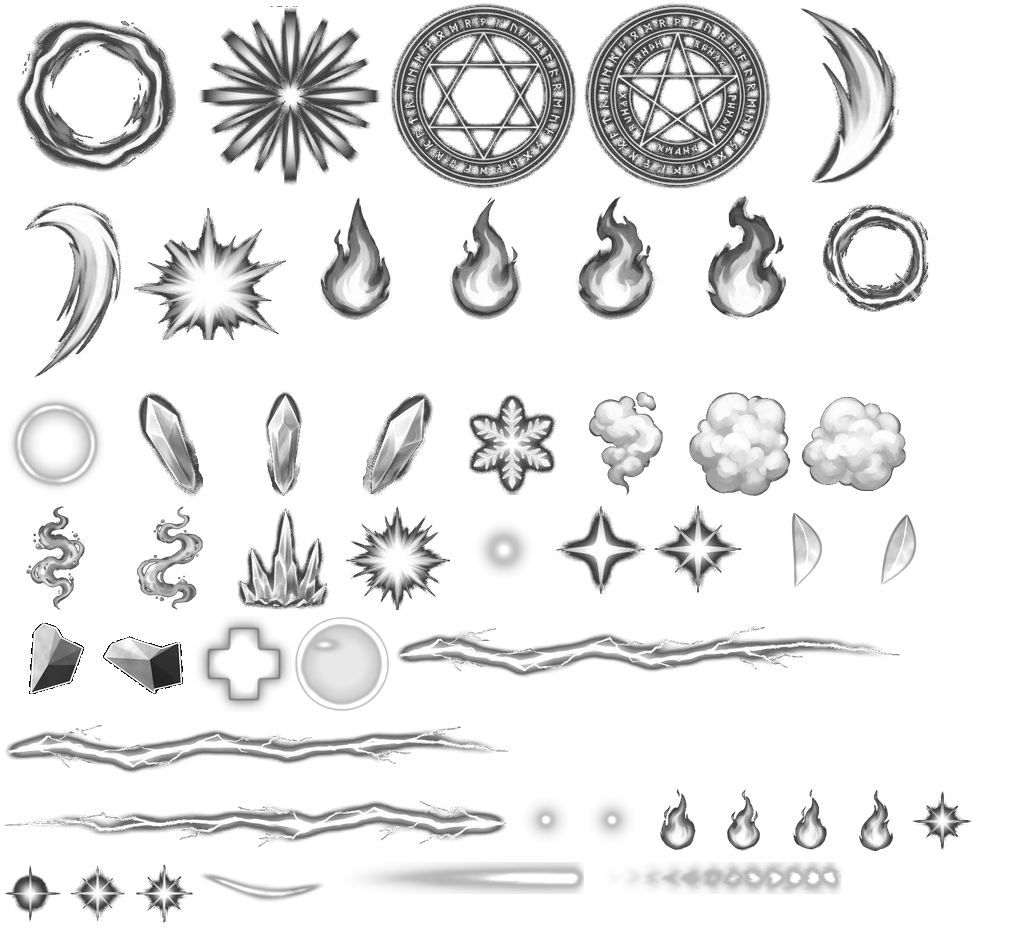
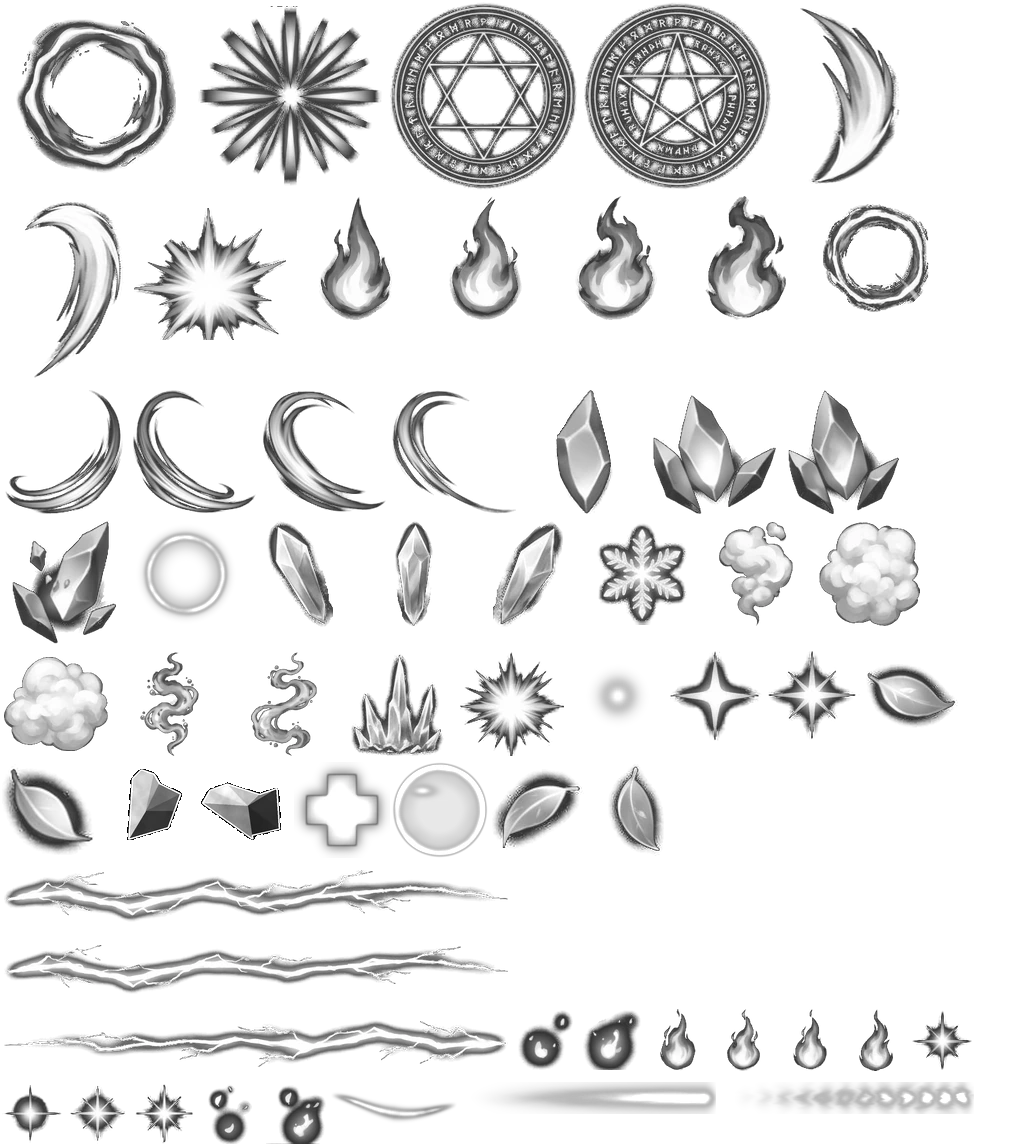
Folha de VFX animada do dono integrada: crescentes de vento no Redemoinho, pedras brotando na Furia do Colosso, folhas e brasas pintadas nas particulas; corrige docstring quebrada de tools/vfx-kit.py

diff --git a/public/style.css b/public/style.css
@@ -282,9 +282,9 @@ body.online .online-only { display: inline-block; }
 .tbtn.sk0, .tbtn.sk1, .tbtn.sk2 { width: 50px; height: 50px; }
 .tbtn.pot { width: 50px; height: 50px; right: 184px; bottom: 19px; }
 .tbtn.pot .icon { font-size: 22px; }
-/* botão de voltar à vila: medalhão pintado como moldura e a casa 3D recortada dentro (assets/icons/ui/home.webp?v=154f9b0b) */
-.tbtn.home, .slot.medal { background: url(assets/ui/medal-normal.webp?v=154f9b0b) center / 100% 100% no-repeat; border: 0; border-radius: 50%; box-shadow: none; overflow: visible; }
-.tbtn.home:active, .tbtn.home.down, .slot.medal:active { background-image: url(assets/ui/medal-pressed.webp?v=154f9b0b); }
+/* botão de voltar à vila: medalhão pintado como moldura e a casa 3D recortada dentro (assets/icons/ui/home.webp?v=d2d19e6c) */
+.tbtn.home, .slot.medal { background: url(assets/ui/medal-normal.webp?v=d2d19e6c) center / 100% 100% no-repeat; border: 0; border-radius: 50%; box-shadow: none; overflow: visible; }
+.tbtn.home:active, .tbtn.home.down, .slot.medal:active { background-image: url(assets/ui/medal-pressed.webp?v=d2d19e6c); }
 .tbtn.home .icon, .slot.medal .icon { position: absolute; inset: 0; display: grid; place-items: center; font-size: 20px; }
 .tbtn.home .icon img, .slot.medal .icon img { width: 70%; height: 70%; object-fit: contain; filter: drop-shadow(0 2px 2px rgba(0,0,0,.5)); pointer-events: none; }
 .zone-ic { width: 40px; height: 40px; object-fit: contain; filter: drop-shadow(0 2px 2px rgba(0,0,0,.45)); }
@@ -431,7 +431,7 @@ body.touch .menu-btns button { width: 44px; height: 40px; }
 @media (max-height: 320px) { :root { --card-w: 100px; --map: 96px; } }
 
 /* cartão do herói: moldura de bronze com 4 gemas; o retrato entra no vão escuro (10%,15,4% · 44,3%×69%) e os dois tubos saem pela direita */
-#hud-player { left: calc(8px + env(safe-area-inset-left, 0px)); top: 8px; width: var(--card-w); height: calc(var(--card-w) * .637); padding: 0; gap: 0; display: block; background: url(assets/ui/hero-card.webp?v=154f9b0b) center/100% 100% no-repeat; border: 0; border-radius: 0; box-shadow: none; filter: drop-shadow(0 3px 4px rgba(0,0,0,.5)); }
+#hud-player { left: calc(8px + env(safe-area-inset-left, 0px)); top: 8px; width: var(--card-w); height: calc(var(--card-w) * .637); padding: 0; gap: 0; display: block; background: url(assets/ui/hero-card.webp?v=d2d19e6c) center/100% 100% no-repeat; border: 0; border-radius: 0; box-shadow: none; filter: drop-shadow(0 3px 4px rgba(0,0,0,.5)); }
 #hud-player .portrait { position: absolute; left: 10%; top: 15.4%; width: 44.3%; height: 69%; border-radius: 6px; background: #141a28; box-shadow: none; border: 0; font-size: 0; overflow: hidden; display: grid; place-items: center; z-index: 2; }
 #hud-player .portrait img { width: 96%; height: 96%; object-fit: contain; filter: none; }
 #hud-player .bars { display: contents; }
@@ -439,11 +439,11 @@ body.touch .menu-btns button { width: 44px; height: 40px; }
 #hud-name { position: absolute; left: 40%; top: 1%; max-width: 135%; font: 800 10px Nunito, sans-serif; color: #fff6d6; text-shadow: 0 1px 2px #000, 0 0 4px #000; white-space: nowrap; overflow: hidden; text-overflow: ellipsis; }
 #hud-player .name-row #hud-level, #hud-level { position: absolute; left: 1%; bottom: -8%; min-width: 22px; height: 20px; padding: 0 6px; display: grid; place-items: center; z-index: 3; border-radius: 10px; font: 900 11px Nunito, sans-serif; color: #3a2600; background: radial-gradient(circle at 35% 30%, #fff0a6, #c98f12); box-shadow: 0 0 0 1.5px #8a5d08, 0 2px 4px rgba(0,0,0,.45); }
 /* vidros de poção: tubo vazio por baixo; o líquido (vida vermelha, XP dourado: nunca azul, o jogo não tem mana) só aparece até a fração --v (11,9%–84% da peça = parte de vidro) */
-#hud-player .bar { position: absolute; left: 38.7%; width: 135.5%; height: auto; aspect-ratio: 520 / 117; margin: 0; border-radius: 0; background: url(assets/ui/vial-empty.webp?v=154f9b0b) center/100% 100% no-repeat; overflow: visible; }
+#hud-player .bar { position: absolute; left: 38.7%; width: 135.5%; height: auto; aspect-ratio: 520 / 117; margin: 0; border-radius: 0; background: url(assets/ui/vial-empty.webp?v=d2d19e6c) center/100% 100% no-repeat; overflow: visible; }
 #hud-player .bar.hp { top: 16.5%; } #hud-player .bar.xp { top: 47%; height: auto; }
 #hud-player .bar .fill { position: absolute; inset: 0; width: 100% !important; height: 100% !important; border-radius: 0; transition: clip-path .15s; clip-path: inset(0 calc(100% - (11.9% + var(--v, 1) * 72.1%)) 0 0); }
-#hud-player .bar.hp .fill:not(.shield) { background: url(assets/ui/vial-hp.webp?v=154f9b0b) center/100% 100% no-repeat; }
-#hud-player .bar.xp .fill { background: url(assets/ui/vial-xp.webp?v=154f9b0b) center/100% 100% no-repeat; }
+#hud-player .bar.hp .fill:not(.shield) { background: url(assets/ui/vial-hp.webp?v=d2d19e6c) center/100% 100% no-repeat; }
+#hud-player .bar.xp .fill { background: url(assets/ui/vial-xp.webp?v=d2d19e6c) center/100% 100% no-repeat; }
 #hud-player .bar.hp .fill.shield { inset: auto; left: 11.9%; top: 26%; height: 5px !important; width: calc(var(--s, 0) * 72.1%) !important; clip-path: none; background: rgba(255,226,120,.9); border-radius: 3px; box-shadow: 0 0 4px rgba(255,200,60,.8); }
 #hud-player .bar span { left: 12%; right: 16%; font: 900 10px Nunito, sans-serif; color: #fff; text-shadow: 0 1px 2px #000, 0 0 3px #000; z-index: 2; }
 #hud-player .bar.xp span { font-size: 9px; }
@@ -452,7 +452,7 @@ body.touch .menu-btns button { width: 44px; height: 40px; }
 
 /* minimapa: anel pintado por cima de um canvas redondo (radar centrado no jogador); o vão do anel é 19,7%–80,4% */
 #hud-zone { right: calc(8px + env(safe-area-inset-right, 0px)); top: 8px; width: var(--map); height: var(--map); padding: 0; background: none; border: 0; border-radius: 0; box-shadow: none; filter: drop-shadow(0 3px 4px rgba(0,0,0,.5)); }
-#hud-zone::after { content: ''; position: absolute; inset: 0; background: url(assets/ui/minimap-ring.webp?v=154f9b0b) center/100% 100% no-repeat; pointer-events: none; z-index: 2; }
+#hud-zone::after { content: ''; position: absolute; inset: 0; background: url(assets/ui/minimap-ring.webp?v=d2d19e6c) center/100% 100% no-repeat; pointer-events: none; z-index: 2; }
 #hud-zone #minimap, body.touch #minimap { position: absolute; display: block; left: 19.7%; top: 19.4%; width: 60.7%; height: 61%; margin: 0; border-radius: 50%; background: rgba(20,30,40,.5); box-shadow: none; }
 #zone-name { display: none; }
 body:not(.touch) #zone-name { display: block; position: absolute; top: 100%; left: 50%; transform: translateX(-50%); margin: -2px 0 0; white-space: nowrap; font: 800 12px Cinzel, serif; color: #fff6d6; text-shadow: 0 1px 3px #000, 0 0 5px #000; }
@@ -462,43 +462,43 @@ body:not(.online) .menu-btns .online-only { display: none; } /* grupo só com co
 .menu-btns button, body.touch .menu-btns button { width: 40px; height: 40px; padding: 0; background: none; border: 0; border-radius: 50%; box-shadow: none; font-size: 0; display: grid; place-items: center; }
 .menu-btns button img { width: 100%; height: 100%; object-fit: contain; display: block; pointer-events: none; filter: drop-shadow(0 2px 3px rgba(0,0,0,.5)); }
 .menu-btns button:active img { filter: brightness(1.25) drop-shadow(0 2px 3px rgba(0,0,0,.5)); }
-.menu-btns button.txt { background: url(assets/ui/medal-normal.webp?v=154f9b0b) center/100% 100% no-repeat; font-size: 17px; color: #fff0a6; }
+.menu-btns button.txt { background: url(assets/ui/medal-normal.webp?v=d2d19e6c) center/100% 100% no-repeat; font-size: 17px; color: #fff0a6; }
 body.touch .menu-btns { position: fixed; top: 8px; right: calc(8px + var(--map) + 8px + env(safe-area-inset-right, 0px)); width: auto; flex-wrap: nowrap; justify-content: flex-start; gap: 4px; }
 @media (max-height: 420px) { .menu-btns button, body.touch .menu-btns button { width: 36px; height: 36px; } }
 @media (max-height: 320px) { .menu-btns button, body.touch .menu-btns button { width: 34px; height: 34px; } }
 
 /* ===== PAINÉIS PINTADOS (B5, parte 2): moldura em 9 fatias, botões, células de raridade, dica e faixa — só a "pele" mudou; marcação e ações iguais ===== */
-.panel { --pb: 26px; background: none; border: var(--pb) solid transparent; border-image: url(assets/ui/panel-9.webp?v=154f9b0b) 135 134 131 135 fill / var(--pb) stretch; border-radius: 0; box-shadow: none; backdrop-filter: none; filter: drop-shadow(0 14px 22px rgba(0,0,0,.55)); }
+.panel { --pb: 26px; background: none; border: var(--pb) solid transparent; border-image: url(assets/ui/panel-9.webp?v=d2d19e6c) 135 134 131 135 fill / var(--pb) stretch; border-radius: 0; box-shadow: none; backdrop-filter: none; filter: drop-shadow(0 14px 22px rgba(0,0,0,.55)); }
 .panel header { padding: 0 2px 6px; }
 .panel h2 { color: #f6ebc9; text-shadow: 0 2px 0 #000b; letter-spacing: .6px; }
 .panel .body { padding: 0 4px 4px; }
-.panel .x { width: 36px; height: 36px; border-radius: 50%; border: 0; background: url(assets/ui/medal-normal.webp?v=154f9b0b) center / 100% 100% no-repeat; color: #f6ebc9; font-weight: 900; text-shadow: 0 1px 0 #000; }
-.panel .x:hover { background: url(assets/ui/medal-normal.webp?v=154f9b0b) center / 100% 100% no-repeat; filter: brightness(1.2); }
-.panel .x:active { background-image: url(assets/ui/medal-pressed.webp?v=154f9b0b); }
+.panel .x { width: 36px; height: 36px; border-radius: 50%; border: 0; background: url(assets/ui/medal-normal.webp?v=d2d19e6c) center / 100% 100% no-repeat; color: #f6ebc9; font-weight: 900; text-shadow: 0 1px 0 #000; }
+.panel .x:hover { background: url(assets/ui/medal-normal.webp?v=d2d19e6c) center / 100% 100% no-repeat; filter: brightness(1.2); }
+.panel .x:active { background-image: url(assets/ui/medal-pressed.webp?v=d2d19e6c); }
 body.touch .panel .x { width: 42px; height: 42px; }
 
-.btn { --bb: 14px; min-height: 36px; border: var(--bb) solid transparent; border-image: url(assets/ui/btn-normal.webp?v=154f9b0b) 80 fill / var(--bb) stretch; border-radius: 0; background: none; padding: 0 8px; margin: -4px 0; color: #f6ebc9; text-shadow: 0 2px 0 #000b; letter-spacing: .3px; transition: filter .1s, transform .1s; }
+.btn { --bb: 14px; min-height: 36px; border: var(--bb) solid transparent; border-image: url(assets/ui/btn-normal.webp?v=d2d19e6c) 80 fill / var(--bb) stretch; border-radius: 0; background: none; padding: 0 8px; margin: -4px 0; color: #f6ebc9; text-shadow: 0 2px 0 #000b; letter-spacing: .3px; transition: filter .1s, transform .1s; }
 .btn:hover { background: none; filter: brightness(1.15); transform: none; }
-.btn:active { border-image-source: url(assets/ui/btn-pressed.webp?v=154f9b0b); transform: translateY(1px); }
-.btn.primary, .btn.sel { background: none; border-color: transparent; border-image-source: url(assets/ui/btn-primary.webp?v=154f9b0b); color: #fff6d6; }
+.btn:active { border-image-source: url(assets/ui/btn-pressed.webp?v=d2d19e6c); transform: translateY(1px); }
+.btn.primary, .btn.sel { background: none; border-color: transparent; border-image-source: url(assets/ui/btn-primary.webp?v=d2d19e6c); color: #fff6d6; }
 .btn.primary:hover { background: none; }
-.btn:disabled, .btn.disabled { border-image-source: url(assets/ui/btn-disabled.webp?v=154f9b0b); color: #a8a6a0; cursor: default; filter: none; }
-.btn.ghost { border-image-source: url(assets/ui/btn-normal.webp?v=154f9b0b); opacity: .85; }
+.btn:disabled, .btn.disabled { border-image-source: url(assets/ui/btn-disabled.webp?v=d2d19e6c); color: #a8a6a0; cursor: default; filter: none; }
+.btn.ghost { border-image-source: url(assets/ui/btn-normal.webp?v=d2d19e6c); opacity: .85; }
 .btn.small { padding: 0 4px; min-height: 30px; --bb: 12px; }
 .btn.big { padding: 0 18px; min-height: 46px; --bb: 16px; }
 .btn.wide { padding: 0 8px; min-height: 44px; margin: 2px 0; }
 body.touch .btn.small { padding: 0 6px; }
 
-.cell { width: 54px; height: 54px; border: 0; border-radius: 0; box-shadow: none; background: url(assets/ui/rarity-0.webp?v=154f9b0b) center / 100% 100% no-repeat; }
-.cell.r-uncommon { background-image: url(assets/ui/rarity-1.webp?v=154f9b0b); }
-.cell.r-rare { background-image: url(assets/ui/rarity-4.webp?v=154f9b0b); box-shadow: none; }
-.cell.r-epic { background-image: url(assets/ui/rarity-6.webp?v=154f9b0b); box-shadow: none; }
-.cell.r-legendary { background-image: url(assets/ui/rarity-5.webp?v=154f9b0b); box-shadow: none; }
-.cell.empty { background: url(assets/ui/rarity-0.webp?v=154f9b0b) center / 100% 100% no-repeat; opacity: .38; border: 0; }
+.cell { width: 54px; height: 54px; border: 0; border-radius: 0; box-shadow: none; background: url(assets/ui/rarity-0.webp?v=d2d19e6c) center / 100% 100% no-repeat; }
+.cell.r-uncommon { background-image: url(assets/ui/rarity-1.webp?v=d2d19e6c); }
+.cell.r-rare { background-image: url(assets/ui/rarity-4.webp?v=d2d19e6c); box-shadow: none; }
+.cell.r-epic { background-image: url(assets/ui/rarity-6.webp?v=d2d19e6c); box-shadow: none; }
+.cell.r-legendary { background-image: url(assets/ui/rarity-5.webp?v=d2d19e6c); box-shadow: none; }
+.cell.empty { background: url(assets/ui/rarity-0.webp?v=d2d19e6c) center / 100% 100% no-repeat; opacity: .38; border: 0; }
 .cell .ic { text-shadow: 0 1px 3px #000a; }
 
-#tooltip { --tb: 22px; max-width: 300px; padding: 0; border: var(--tb) solid transparent; border-image: url(assets/ui/tip.webp?v=154f9b0b) 70 fill / var(--tb) stretch; border-radius: 0; background: none; box-shadow: none; filter: drop-shadow(0 8px 14px rgba(0,0,0,.5)); }
-#arena-banner { background: url(assets/ui/banner.webp?v=154f9b0b) center / 100% 100% no-repeat; padding: .35em 1.6em; text-shadow: 0 2px 0 #000b; }
+#tooltip { --tb: 22px; max-width: 300px; padding: 0; border: var(--tb) solid transparent; border-image: url(assets/ui/tip.webp?v=d2d19e6c) 70 fill / var(--tb) stretch; border-radius: 0; background: none; box-shadow: none; filter: drop-shadow(0 8px 14px rgba(0,0,0,.5)); }
+#arena-banner { background: url(assets/ui/banner.webp?v=d2d19e6c) center / 100% 100% no-repeat; padding: .35em 1.6em; text-shadow: 0 2px 0 #000b; }
 @media (max-height: 520px) { .panel { --pb: 20px; } .cell { width: 48px; height: 48px; } }
 .inv-grid { grid-template-columns: repeat(6, minmax(0, 56px)); gap: 4px; }
 .inv-grid .cell { width: 100%; height: auto; aspect-ratio: 1; }
@@ -508,7 +508,7 @@ body.touch .btn.small { padding: 0 6px; }
 .char-head .avatar.art img { width: 100%; height: 100%; filter: drop-shadow(0 3px 4px rgba(0,0,0,.5)); }
 
 /* ===== B5 parte 2b: criação de personagem, diálogo de NPC e barra do chefe pintados ===== */
-.create-wrap { --pb: 30px; background: none; border: var(--pb) solid transparent; border-image: url(assets/ui/panel-9.webp?v=154f9b0b) 135 134 131 135 fill / var(--pb) stretch; border-radius: 0; padding: 4px 8px 8px; filter: drop-shadow(0 16px 28px rgba(0,0,0,.6)); }
+.create-wrap { --pb: 30px; background: none; border: var(--pb) solid transparent; border-image: url(assets/ui/panel-9.webp?v=d2d19e6c) 135 134 131 135 fill / var(--pb) stretch; border-radius: 0; padding: 4px 8px 8px; filter: drop-shadow(0 16px 28px rgba(0,0,0,.6)); }
 .create-wrap h1 { text-shadow: 0 2px 0 #000b; letter-spacing: 1px; }
 .class-card { background: rgba(8,10,26,.55); border: 2px solid rgba(201,162,74,.28); border-radius: 12px; }
 .class-card.sel { border-color: color-mix(in srgb, var(--cc) 55%, #e8c46a); background: color-mix(in srgb, var(--cc) 20%, rgba(8,10,26,.6)); }
@@ -517,16 +517,16 @@ body.touch .btn.small { padding: 0 6px; }
 .create-row input { background: rgba(8,10,26,.7); border: 2px solid rgba(201,162,74,.55); }
 @media (max-height: 520px) { .create-wrap { --pb: 22px; } .cc-icon.art { width: 40px; height: 40px; } }
 
-.npc-line { --db: 18px; margin: 0 0 10px; padding: 2px 6px; border: var(--db) solid transparent; border-image: url(assets/ui/dialog.webp?v=154f9b0b) 60 fill / var(--db) stretch; color: #3b2a14; font-style: italic; font-weight: 700; text-shadow: 0 1px 0 rgba(255,246,214,.5); }
+.npc-line { --db: 18px; margin: 0 0 10px; padding: 2px 6px; border: var(--db) solid transparent; border-image: url(assets/ui/dialog.webp?v=d2d19e6c) 60 fill / var(--db) stretch; color: #3b2a14; font-style: italic; font-weight: 700; text-shadow: 0 1px 0 rgba(255,246,214,.5); }
 
 #boss-bar { width: min(460px, 56vw); }
-#boss-name { position: relative; margin: 0 auto 2px; padding: 5px 40px 7px; width: max-content; max-width: 100%; background: url(assets/ui/plaque.webp?v=154f9b0b) center / 100% 100% no-repeat; color: #fff0d6; text-shadow: 0 2px 0 #000b; }
+#boss-name { position: relative; margin: 0 auto 2px; padding: 5px 40px 7px; width: max-content; max-width: 100%; background: url(assets/ui/plaque.webp?v=d2d19e6c) center / 100% 100% no-repeat; color: #fff0d6; text-shadow: 0 2px 0 #000b; }
 #boss-bar .bar { height: 14px; border: 2px solid #c9a24a; border-radius: 8px; background: #2a0e12; box-shadow: 0 0 0 1px #4a2a18, 0 4px 10px rgba(0,0,0,.5); }
 #boss-bar .fill { border-radius: 5px; background: linear-gradient(180deg, #ff9a88 0%, #d9473b 55%, #9c2a24 100%); }
 /* retrato do chefe: recorte frontal do sprite pintado, em medalhão dourado à esquerda da barra */
 #boss-portrait { --s: 58px; --cols: 5; --rows: 8; --ratio: 1.2; display: none; position: absolute; left: -34px; top: 6px; width: var(--s); height: var(--s); box-sizing: border-box; border-radius: 50%; border: 3px solid #c9a24a; background-color: #2a0e12; background-repeat: no-repeat; background-size: cover; background-position: center top; box-shadow: 0 0 0 1px #4a2a18, 0 4px 10px rgba(0,0,0,.55), inset 0 0 8px rgba(0,0,0,.6); z-index: 2; }
 body.touch #boss-portrait { --s: 44px; left: -26px; top: 2px; }
-.npc-line { border: 0; border-image: none; background: url(assets/ui/dialog.webp?v=154f9b0b) center / 100% 100% no-repeat; padding: 16px 18px 16px 21%; color: #f6ebc9; text-shadow: 0 2px 0 #000b; min-height: 74px; display: flex; align-items: center; }
+.npc-line { border: 0; border-image: none; background: url(assets/ui/dialog.webp?v=d2d19e6c) center / 100% 100% no-repeat; padding: 16px 18px 16px 21%; color: #f6ebc9; text-shadow: 0 2px 0 #000b; min-height: 74px; display: flex; align-items: center; }
 body.touch #boss-bar { top: 54px; width: min(420px, 48vw); }
 @media (max-height: 520px) {
   .create-wrap { padding: 0 6px 4px; }
@@ -559,7 +559,7 @@ body.touch #boss-bar { top: 54px; width: min(420px, 48vw); }
 .npc-line { position: relative; }
 .npc-emb { position: absolute; left: 3.2%; top: 50%; width: 15%; aspect-ratio: 3 / 4; transform: translateY(-50%); display: grid; place-items: center; pointer-events: none; }
 .npc-emb img { width: 92%; height: 92%; object-fit: contain; filter: drop-shadow(0 2px 3px rgba(0,0,0,.6)); }
-.result { --pb: 28px; background: none; border: var(--pb) solid transparent; border-image: url(assets/ui/panel-9.webp?v=154f9b0b) 135 134 131 135 fill / var(--pb) stretch; border-radius: 0; padding: 6px 24px 8px; filter: drop-shadow(0 16px 28px rgba(0,0,0,.6)); }
+.result { --pb: 28px; background: none; border: var(--pb) solid transparent; border-image: url(assets/ui/panel-9.webp?v=d2d19e6c) 135 134 131 135 fill / var(--pb) stretch; border-radius: 0; padding: 6px 24px 8px; filter: drop-shadow(0 16px 28px rgba(0,0,0,.6)); }
 .result h1 { text-shadow: 0 2px 0 #000b; }
 .result .sub { color: #cdd3ea; }
 @media (max-height: 520px) { .result { --pb: 22px; padding: 0 14px 4px; } }
@@ -572,13 +572,13 @@ body.touch #boss-bar { top: 54px; width: min(420px, 48vw); }
 .cc-icon.art img.por { border-radius: 50%; object-fit: cover; object-position: 50% 14%; background: radial-gradient(circle at 50% 35%, #34476e, #141a2e); box-shadow: 0 0 0 2px #c9a24a; }
 
 /* ===== B5 parte 2c: avisos, ouro e log pintados (sobras do estilo antigo: caixas escuras e fonte comum) ===== */
-.toast { --tb: 20px; background: none; border: var(--tb) solid transparent; border-image: url(assets/ui/tip.webp?v=154f9b0b) 70 fill / var(--tb) stretch; border-radius: 0; padding: 0 10px; filter: drop-shadow(0 6px 10px rgba(0,0,0,.45)); box-shadow: none; }
+.toast { --tb: 20px; background: none; border: var(--tb) solid transparent; border-image: url(assets/ui/tip.webp?v=d2d19e6c) 70 fill / var(--tb) stretch; border-radius: 0; padding: 0 10px; filter: drop-shadow(0 6px 10px rgba(0,0,0,.45)); box-shadow: none; }
 .toast.gold { border-color: transparent; box-shadow: none; filter: drop-shadow(0 0 12px rgba(255,211,77,.45)) drop-shadow(0 6px 10px rgba(0,0,0,.45)); }
 .toast .t1 { color: #fff0c8; text-shadow: 0 2px 0 #000b; }
 .toast .t2 { color: #e6dcc0; font-family: Cinzel, serif; font-weight: 700; font-size: 12px; text-shadow: 0 1px 0 #000a; }
-#hud-gold > span { --bb: 12px; background: none; border: var(--bb) solid transparent; border-image: url(assets/ui/btn-normal.webp?v=154f9b0b) 80 fill / var(--bb) stretch; border-radius: 0; padding: 0 6px; font: 800 13px Cinzel, serif; color: #f6ebc9; text-shadow: 0 2px 0 #000b; margin: -4px 0; }
-#hud-gold .pts { border-image-source: url(assets/ui/btn-primary.webp?v=154f9b0b); color: #fff6d6; background: none; }
-.log-line { --db: 12px; background: none; border: var(--db) solid transparent; border-image: url(assets/ui/tip.webp?v=154f9b0b) 70 fill / var(--db) stretch; border-radius: 0; padding: 0 4px; font: 700 12px Cinzel, serif; color: #f6ebc9; margin: -6px 0; }
+#hud-gold > span { --bb: 12px; background: none; border: var(--bb) solid transparent; border-image: url(assets/ui/btn-normal.webp?v=d2d19e6c) 80 fill / var(--bb) stretch; border-radius: 0; padding: 0 6px; font: 800 13px Cinzel, serif; color: #f6ebc9; text-shadow: 0 2px 0 #000b; margin: -4px 0; }
+#hud-gold .pts { border-image-source: url(assets/ui/btn-primary.webp?v=d2d19e6c); color: #fff6d6; background: none; }
+.log-line { --db: 12px; background: none; border: var(--db) solid transparent; border-image: url(assets/ui/tip.webp?v=d2d19e6c) 70 fill / var(--db) stretch; border-radius: 0; padding: 0 4px; font: 700 12px Cinzel, serif; color: #f6ebc9; margin: -6px 0; }
 /* a faixa da arena ("1×1 — começa em 3", "Lute!") ficava em cima da barra do rival: desce abaixo dela */
 #arena-banner { top: 36%; }
 @media (max-height: 520px) { #arena-banner { top: 38%; font-size: 20px; } }
@@ -652,8 +652,8 @@ body.touch #boss-bar { top: 54px; width: min(420px, 48vw); }
 
 /* ===== Auditoria visual, média/baixa (V5–V30) ===== */
 /* V6: botão de interagir (toque) no mesmo medalhão pintado dos outros; o ícone é pintado (baú ou pergaminho), sem disco amarelo */
-.tbtn.act { width: 60px; height: 60px; background: url(assets/ui/medal-normal.webp?v=154f9b0b) center / 100% 100% no-repeat; border: 0; border-radius: 50%; box-shadow: none; animation: act-glow 1.4s ease-in-out infinite; }
-.tbtn.act.down { background-image: url(assets/ui/medal-pressed.webp?v=154f9b0b); }
+.tbtn.act { width: 60px; height: 60px; background: url(assets/ui/medal-normal.webp?v=d2d19e6c) center / 100% 100% no-repeat; border: 0; border-radius: 50%; box-shadow: none; animation: act-glow 1.4s ease-in-out infinite; }
+.tbtn.act.down { background-image: url(assets/ui/medal-pressed.webp?v=d2d19e6c); }
 .tbtn.act .icon { position: absolute; inset: 0; display: grid; place-items: center; font-size: 0; }
 .tbtn.act .icon img { width: 66%; height: 66%; object-fit: contain; filter: drop-shadow(0 2px 2px rgba(0,0,0,.5)); pointer-events: none; }
 @keyframes act-glow { 50% { filter: drop-shadow(0 0 8px rgba(255,214,120,.9)) brightness(1.12); } }
@@ -680,7 +680,7 @@ body.panel-open #toast-layer { top: 6%; }
 @media (max-height: 520px) { body.boss-on #toast-layer { top: 40%; } }
 
 /* V18: pílula do ritual com a moldura de metal da barra do chefe */
-#ritual { top: calc(var(--map) + 30px); right: calc(8px + env(safe-area-inset-right, 0px)); padding: 5px 26px 7px; background: url(assets/ui/plaque.webp?v=154f9b0b) center / 100% 100% no-repeat; border: 0; border-radius: 0; color: #fff0d6; text-shadow: 0 2px 0 #000b; font-size: 12px; white-space: nowrap; }
+#ritual { top: calc(var(--map) + 30px); right: calc(8px + env(safe-area-inset-right, 0px)); padding: 5px 26px 7px; background: url(assets/ui/plaque.webp?v=d2d19e6c) center / 100% 100% no-repeat; border: 0; border-radius: 0; color: #fff0d6; text-shadow: 0 2px 0 #000b; font-size: 12px; white-space: nowrap; }
 body.touch #ritual { top: calc(var(--map) + 10px); }
 body:not(.touch) #ritual { top: calc(var(--map) + 150px); }
 
@@ -689,7 +689,7 @@ body:not(.touch) #ritual { top: calc(var(--map) + 150px); }
 .slot.art.blocked .icon img, .tbtn.sk.blocked .icon img { filter: grayscale(.85) brightness(.5); }
 
 /* V24: item opalino: moldura prateada (rarity-2, que sobrava) com brilho em arco-íris pulsando */
-.cell.opal { background-image: url(assets/ui/rarity-2.webp?v=154f9b0b); animation: opal-pulse 2.8s linear infinite; }
+.cell.opal { background-image: url(assets/ui/rarity-2.webp?v=d2d19e6c); animation: opal-pulse 2.8s linear infinite; }
 .cell.opal::after { content: ''; position: absolute; inset: 6%; border-radius: 12px; pointer-events: none; mix-blend-mode: screen; opacity: .55;
   background: linear-gradient(115deg, rgba(255,120,200,.0) 10%, rgba(255,140,220,.7) 28%, rgba(120,230,255,.7) 46%, rgba(170,255,170,.7) 62%, rgba(255,230,130,.7) 78%, rgba(255,120,200,0) 92%); background-size: 220% 100%; animation: opal-sheen 3.4s ease-in-out infinite; }
 @keyframes opal-pulse { 0%, 100% { filter: drop-shadow(0 0 5px rgba(255,150,230,.7)); } 33% { filter: drop-shadow(0 0 7px rgba(130,230,255,.8)); } 66% { filter: drop-shadow(0 0 6px rgba(190,255,170,.75)); } }
@@ -755,7 +755,7 @@ body:not(.touch) #ritual { top: calc(var(--map) + 150px); }
 .mp-paths line.dungeon.lit { stroke: #7fe0ea; stroke-opacity: .9; }
 .mp-node.dungeon .mp-nm { color: #9fe8f2; }
 .mp-node { position: absolute; transform: translate(-50%, -50%); display: flex; flex-direction: column; align-items: center; gap: 1px; width: 92px; padding: 2px 0; background: none; border: 0; color: #f6ebc9; cursor: pointer; font-family: Nunito, sans-serif; }
-.mp-ic { position: relative; width: 46px; height: 46px; display: grid; place-items: center; border-radius: 50%; background: url(assets/ui/medal-normal.webp?v=154f9b0b) center / 100% 100% no-repeat; }
+.mp-ic { position: relative; width: 46px; height: 46px; display: grid; place-items: center; border-radius: 50%; background: url(assets/ui/medal-normal.webp?v=d2d19e6c) center / 100% 100% no-repeat; }
 .mp-ic .zone-ic { width: 30px; height: 30px; }
 .mp-node.sel .mp-ic { filter: drop-shadow(0 0 7px #ffd34d) brightness(1.15); }
 .mp-node.here .mp-ic { box-shadow: 0 0 0 2px #7dff9b; }
@@ -909,15 +909,15 @@ body:not(.touch) #ritual { top: calc(var(--map) + 150px); }
 body:has(#hud-gold .pts) #qtrack { top: calc(8px + var(--card-w) * .637 + 12px + 40px + var(--sat, 0px)); } /* com o aviso "+N pontos" ele vem primeiro */
 #qtrack button { padding: 0; border: 0; background: none; cursor: pointer; pointer-events: auto; flex: none; position: relative; filter: drop-shadow(0 2px 3px rgba(0,0,0,.5)); }
 #qtrack .qt-ic { width: 34px; height: 34px; } #qtrack .qt-ic img { width: 100%; height: 100%; object-fit: contain; display: block; pointer-events: none; }
-#qtrack .qt-txt { --bb: 9px; min-width: 0; flex: 0 1 auto; margin-left: -4px; pointer-events: auto; cursor: pointer; background: none; border: var(--bb) solid transparent; border-image: url(assets/ui/btn-normal.webp?v=154f9b0b) 80 fill / var(--bb) stretch; border-radius: 0; padding: 0 4px; white-space: nowrap; overflow: hidden; text-overflow: ellipsis; font: 800 11px/18px Nunito, system-ui, sans-serif; color: #fff6d6; text-shadow: 0 1px 2px #000, 0 0 3px #000; filter: drop-shadow(0 2px 3px rgba(0,0,0,.45)); }
+#qtrack .qt-txt { --bb: 9px; min-width: 0; flex: 0 1 auto; margin-left: -4px; pointer-events: auto; cursor: pointer; background: none; border: var(--bb) solid transparent; border-image: url(assets/ui/btn-normal.webp?v=d2d19e6c) 80 fill / var(--bb) stretch; border-radius: 0; padding: 0 4px; white-space: nowrap; overflow: hidden; text-overflow: ellipsis; font: 800 11px/18px Nunito, system-ui, sans-serif; color: #fff6d6; text-shadow: 0 1px 2px #000, 0 0 3px #000; filter: drop-shadow(0 2px 3px rgba(0,0,0,.45)); }
 #qtrack b { display: none; } /* o nome da missão fica no diário (title); a linha mostra o objetivo e o destino */
 #qtrack span, #qtrack em { font: 800 11px/18px Nunito, system-ui, sans-serif; color: #fff6d6; font-style: normal; }
 #qtrack em { color: #bfeaff; } #qtrack em::before { content: ' · '; color: #ffd98a; }
 #qtrack em.go { color: #b6ffb0; } #qtrack em.warn { color: #ffb4a8; }
-#qtrack .qt-btn { width: 34px; height: 34px; background: url(assets/ui/medal-normal.webp?v=154f9b0b) center / 100% 100% no-repeat; color: #ffe08a; display: grid; place-items: center; }
+#qtrack .qt-btn { width: 34px; height: 34px; background: url(assets/ui/medal-normal.webp?v=d2d19e6c) center / 100% 100% no-repeat; color: #ffe08a; display: grid; place-items: center; }
 #qtrack .qt-btn svg { width: 54%; height: 54%; margin-top: 2px; filter: drop-shadow(0 1px 1px rgba(0,0,0,.7)); pointer-events: none; }
 #qtrack .qt-btn.stop { color: #ffb4a8; }
-#qtrack .qt-btn:active { background-image: url(assets/ui/medal-pressed.webp?v=154f9b0b); }
+#qtrack .qt-btn:active { background-image: url(assets/ui/medal-pressed.webp?v=d2d19e6c); }
 .quest-card .btn-col { display: flex; flex-direction: column; gap: 4px; }
 
 /* ---- geometria dos botões de toque (touch-logic.js skillLayout): centro (--cx da borda direita, --cy da de baixo) e diâmetro (--d), em px do contêiner.

diff --git a/public/src/render/skill-vfx.js b/public/src/render/skill-vfx.js
@@ -110,13 +110,14 @@ function bit(f, x, y, z, vx, vy, vz, size, life, a = 1) {
     case 2: em(rnd() < 0.4 ? SP.star8 : SP.spark, rnd() < 0.5 ? f.m : f.h, 0, x, y, z, vx, vy, vz, size * 0.8, size * 0.2, life, 0, 0, a, 1.5, 10); break;
     case 3: em(SP.wisp0 + ((rnd() * 2) | 0), f.m, 0, x, y, z, vx, vy, vz, size, size * 0.5, life, rnd() * TAU, (rnd() - 0.5) * 3, a * 0.9, 1.3, -30); break;
     case 4: em(SP.spark, rnd() < 0.5 ? f.m : f.h, 0, x, y, z, vx, vy, vz, size * 0.8, size * 0.25, life, 0, 0, a, 1.2, -25); break;
-    default: em(SP.leaf0 + ((rnd() * 2) | 0), f.m, 1, x, y, z, vx, vy, vz, size * 0.55, size * 0.4, life, rnd() * TAU, (rnd() - 0.5) * 9, a, 1.0, 40); break;
+    default: em(LEAVES[(rnd() * 4) | 0], f.m, 1, x, y, z, vx, vy, vz, size * 0.55, size * 0.4, life, rnd() * TAU, (rnd() - 0.5) * 9, a, 1.0, 40); break;
   }
 }
 // fagulha: metade faísca, metade cintila em cruz (twinkle, maior porque o brilho do sprite é fino)
 const spark = (f, x, y, z, vx, vy, vz, size, life, a = 1) => (rnd() < 0.45 ? em(SP.twinkle0 + ((rnd() * 4) | 0), f.h, 0, x, y, z, vx, vy, vz, size * 1.7, size * 0.4, life, rnd() * 1.5, (rnd() - 0.5) * 3, a, 1.6, 60) : em(SP.spark, f.h, 0, x, y, z, vx, vy, vz, size, size * 0.2, life, 0, 0, a, 1.6, 60));
-const ember = (f, x, y, z, vx, vy, vz, size, life, a = 1) => em(rnd() < 0.4 ? SP.flamelet0 + ((rnd() * 4) | 0) : SP.ember0 + ((rnd() * 2) | 0), f.m, 0, x, y, z, vx, vy, vz, size, size * 0.3, life, 0, 0, a, 0.8, 120);
+const ember = (f, x, y, z, vx, vy, vz, size, life, a = 1) => em(rnd() < 0.4 ? SP.flamelet0 + ((rnd() * 4) | 0) : EMBERS[(rnd() * 4) | 0], f.m, 0, x, y, z, vx, vy, vz, size, size * 0.3, life, 0, 0, a, 0.8, 120);
 const smoke = (f, x, y, z, vx, vy, vz, size, life, a = 0.4) => em(SP.smoke0 + ((rnd() * 3) | 0), f.fam === 3 ? PL.toxic : f.fam === 0 ? PL.smoke : PL.dust, 2, x, y, z, vx, vy, vz, size * 0.5, size, life, rnd() * TAU, (rnd() - 0.5) * 1.2, a, 1.5, -25);
+const LEAVES = [SP.leaf0, SP.leaf1, SP.leaf2, SP.leaf3], EMBERS = [SP.ember0, SP.ember1, SP.ember2, SP.ember3];
 const chunk = (x, y, vx, vy, vz, size, life) => em(SP.shard0 + ((rnd() * 2) | 0), PL.stone, 2, x, y, 4, vx, vy, vz, size, size * 0.85, life, rnd() * TAU, (rnd() - 0.5) * 14, 1, 0.2, 900);
 
 // tremor de câmera discreto (golpes fortes): o renderer soma isto ao deslocamento da câmera
@@ -323,6 +324,7 @@ function drawWhirl(g, f, k, el, cx, cy) {
   const R = f.r, e = ease(k), o = 1 - k, sc = R * 0.95 / 96;
   put(g, SP.shock, f.m, 0, cx, cy, R * 2.5 * (0.45 + 0.55 * e), R * 2.5 * (0.45 + 0.55 * e), el * 2, o * 0.85);
   for (let i = 0; i < 3; i++) put(g, i === 1 ? SP.slash1 : SP.slash0, i === 1 ? f.h : f.m, 0, cx, cy, 150 * sc, 225 * sc, k * TAU * 1.6 + i * TAU / 3, Math.min(1, o * 1.3));
+  if (!LITE) for (let i = 0; i < 2; i++) put(g, SP.gust0 + Math.min(3, (k * 4) | 0), i ? f.h : f.m, 0, cx, cy, R * 2.1, R * 2.1, -k * TAU * 1.3 + i * Math.PI, o * 0.8);
   burstOnce(f, cx, cy, 10, 220, 30);
   if (el < 0.4) for (let n = rate(f, 110); n > 0; n--) {
     const a = rnd() * TAU, r = R * (0.65 + rnd() * 0.35), tx = -Math.sin(a) * 160, ty = Math.cos(a) * 160;
@@ -430,9 +432,11 @@ function drawBlink(g, f, k, el, cx, cy) {
 // Fúria do Colosso: rastro dourado, onda de choque com pedras ao chegar e aura que dura o reforço
 function drawColossus(g, f, el, cx, cy, world) {
   drawDash(g, f, Math.min(el, 0.69), cx, cy, 34, world);
+  if (f.t3 !== undefined && el - f.t3 < 0.6) { const u = (el - f.t3) / 0.6, st = Math.min(3, (u * 4) | 0); put(g, SP.rock0 + st, PL.stone, 0, cx, cy + 10, 150, 150, 0, 1 - u * u * 0.8); }
   if (el > 0.3 && f.n < 3) { f.n = 3; // chegada: pedras, poeira, onda dupla, tremor
     for (let i = cnt(9); i > 0; i--) { const a = rnd() * TAU, v = 90 + rnd() * 160; chunk(cx, cy, Math.cos(a) * v, Math.sin(a) * v * 0.7, 260 + rnd() * 220, 14 + rnd() * 12, 1.4); }
     for (let i = cnt(8); i > 0; i--) { const a = rnd() * TAU; smoke(f, cx + Math.cos(a) * 30, cy + Math.sin(a) * 24, 4, Math.cos(a) * 80, Math.sin(a) * 60, 20, 40 + rnd() * 20, 0.9, 0.5); }
+    f.t3 = el;
     shake(world, 5, 0.45);
   }
   if (el > 0.28 && el < 1.1) { const u = (el - 0.28) / 0.82, e = ease(u); put(g, SP.shock, f.m, 0, cx, cy, 380 * e, 380 * e, 0, (1 - u) * 0.95); put(g, SP.shock, f.h, 0, cx, cy, 300 * e * 0.8, 300 * e * 0.8, 1, (1 - u) * 0.7); put(g, SP.burst, f.h, 0, cx, cy - 6, 70 + 120 * e, 70 + 120 * e, 0, (1 - u)); put(g, SP.glow, f.m, 1, cx, cy, 300 * e, 300 * e, 0, (1 - u) * 0.6); }

diff --git a/public/index.html b/public/index.html
@@ -33,13 +33,13 @@
       <div id="zone-name"></div>
       <canvas id="minimap" width="170" height="170"></canvas>
       <div class="menu-btns" id="menu-btns">
-        <button data-action="toggle" data-arg="inventory" title="Mochila"><img src="assets/icons/menu/menu-bag.webp?v=154f9b0b" alt="" draggable="false"></button>
-        <button data-action="toggle" data-arg="character" title="Personagem"><img src="assets/icons/menu/menu-hero.webp?v=154f9b0b" alt="" draggable="false"></button>
-        <button data-action="toggle" data-arg="spirits" title="Spirits"><img src="assets/icons/menu/menu-spirits.webp?v=154f9b0b" alt="" draggable="false"></button>
-        <button data-action="toggle" data-arg="journal" title="Diário e missões"><img src="assets/icons/menu/menu-journal.webp?v=154f9b0b" alt="" draggable="false"></button>
-        <button data-action="toggle" data-arg="map" title="Mapa"><img src="assets/icons/menu/menu-map.webp?v=154f9b0b" alt="" draggable="false"></button>
-        <button data-action="toggle" data-arg="party" class="online-only" title="Grupo"><img src="assets/icons/menu/menu-party.webp?v=154f9b0b" alt="" draggable="false"></button>
-        <button data-action="toggle" data-arg="options" title="Opções"><img src="assets/icons/menu/menu-settings.webp?v=154f9b0b" alt="" draggable="false"></button>
+        <button data-action="toggle" data-arg="inventory" title="Mochila"><img src="assets/icons/menu/menu-bag.webp?v=d2d19e6c" alt="" draggable="false"></button>
+        <button data-action="toggle" data-arg="character" title="Personagem"><img src="assets/icons/menu/menu-hero.webp?v=d2d19e6c" alt="" draggable="false"></button>
+        <button data-action="toggle" data-arg="spirits" title="Spirits"><img src="assets/icons/menu/menu-spirits.webp?v=d2d19e6c" alt="" draggable="false"></button>
+        <button data-action="toggle" data-arg="journal" title="Diário e missões"><img src="assets/icons/menu/menu-journal.webp?v=d2d19e6c" alt="" draggable="false"></button>
+        <button data-action="toggle" data-arg="map" title="Mapa"><img src="assets/icons/menu/menu-map.webp?v=d2d19e6c" alt="" draggable="false"></button>
+        <button data-action="toggle" data-arg="party" class="online-only" title="Grupo"><img src="assets/icons/menu/menu-party.webp?v=d2d19e6c" alt="" draggable="false"></button>
+        <button data-action="toggle" data-arg="options" title="Opções"><img src="assets/icons/menu/menu-settings.webp?v=d2d19e6c" alt="" draggable="false"></button>
         <button data-action="fullscreen" class="txt" title="Tela cheia">⛶</button>
       </div>
     </div>

diff --git a/public/src/render/vfx-kit.js b/public/src/render/vfx-kit.js
@@ -7,7 +7,9 @@ export const NAMES = ['glow', 'ring', 'shock', 'flame0', 'flame1', 'flame2', 'fl
   'crystal0', 'crystal1', 'crystal2', 'flake', 'bolt0', 'bolt1', 'bolt2', 'ribbon0', 'ribbon1', 'wind', 'leaf0', 'leaf1', 'smoke0', 'smoke1', 'smoke2',
   'wisp0', 'wisp1', 'shard0', 'shard1', 'cross', 'bubble', 'rune0', 'rune1', 'slash0', 'slash1',
   // extras da arte pintada (tools/vfx-sheet.py): espinhos de gelo, chamas pequenas, cintilas, anel pequeno e estrela média de impacto
-  'spikes', 'flamelet0', 'flamelet1', 'flamelet2', 'flamelet3', 'twinkle0', 'twinkle1', 'twinkle2', 'twinkle3', 'shock2', 'burst2'];
+  'spikes', 'flamelet0', 'flamelet1', 'flamelet2', 'flamelet3', 'twinkle0', 'twinkle1', 'twinkle2', 'twinkle3', 'shock2', 'burst2',
+  // folha 4 (animada): brasas e folhas extras, crescentes de vento em 4 estágios e cristais de pedra brotando em 4 estágios
+  'ember2', 'ember3', 'leaf2', 'leaf3', 'gust0', 'gust1', 'gust2', 'gust3', 'rock0', 'rock1', 'rock2', 'rock3'];
 export const SP = {}; NAMES.forEach((n, i) => { SP[n] = i; });
 
 // paletas: [borda escura, cor, clara]; o núcleo (intensidade > 0,8) vai ao branco

diff --git a/public/sw.js b/public/sw.js
@@ -2,7 +2,7 @@
 // Código (HTML/JS/CSS/manifesto): REDE PRIMEIRO, ignorando o cache HTTP do servidor (o GitHub Pages manda max-age=600, o que deixava versões velhas por 10 min),
 // e cai no cache só se estiver offline. Arte pesada (PNG, fontes, SVG): cache primeiro e atualiza em segundo plano.
 // Nada de WebSocket, API ou outras origens (login/salvamento na nuvem passam direto). Subir VERSION invalida o cache antigo.
-const VERSION = 'aetheria-154f9b0b';
+const VERSION = 'aetheria-d2d19e6c';
 const HEAVY = /\.(png|ttf|woff2?|svg|jpg|webp)$/i;
 
 self.addEventListener('install', (e) => { self.skipWaiting(); e.waitUntil(caches.open(VERSION).then((c) => c.addAll(['./', 'index.html', 'style.css', 'fonts/fonts.css', 'manifest.webmanifest', 'icon.svg']))); });

diff --git a/public/src/assets-version.js b/public/src/assets-version.js
@@ -1,6 +1,6 @@
 // Versão da arte estática (public/assets/**). Gerada por `node tools/bump-assets.mjs` (hash do conteúdo): não editar à mão.
 // O service worker serve imagens do cache primeiro; sem `?v=` uma arte trocada com o mesmo nome ficaria velha no aparelho.
-export const ASSET_V = '154f9b0b';
+export const ASSET_V = 'd2d19e6c';
 
 // Anexa `?v=` a um caminho de arte (relativo, como 'assets/icons/x.webp'). Caminhos que já têm query ficam como estão.
 export const asset = (path) => (path.includes('?') ? path : `${path}?v=${ASSET_V}`);

diff --git a/tools/vfx-sheet.py b/tools/vfx-sheet.py
@@ -178,8 +178,27 @@ def build():
         L, m = region(s3, box, 24, 4, 'largest')
         put(f'rune{i}', fit(*to_IA(L, m, 5, 36, .8), (192, 192), (2, 2, 188, 188)), (96, 96))
 
+    # ---- FOLHA 4 (animada, 5x5 por efeito, células de 200 px com grade): vento (gust0..3), brasas (ember0..3), folhas (leaf0..3), pedras (rock0..3)
+    s4 = load('vfx-folha-4-animada.jpg')
 
-kit.PREV.update({'spikes': 'ice', 'flamelet': 'fire', 'twinkle': 'gold', 'shock2': 'fire', 'burst2': 'fire'})
+    def cell4(R, C):
+        return (200 * C + 4, 200 * R + 4, 200 * C + 197, 200 * R + 197)
+
+    def painted(name, R, C, size, align=('c', 'c'), a=5, b=36, gamma=.8, thr=18):
+        L, m = region(s4, cell4(R, C), thr, 3, 'largest')
+        put(name, fit(*to_IA(L, m, a, b, gamma), (size, size), (2, 2, size - 4, size - 4), align), (size // 2, size // 2))
+
+    for i, (R, C) in enumerate([(0, 4), (1, 4), (2, 4), (3, 3)]):  # crescentes de vento em 4 estágios (cresce e some)
+        painted(f'gust{i}', R, C, 128, thr=14)
+    for i, (R, C) in enumerate([(1, 9), (2, 9), (3, 9), (4, 5)]):  # brasas com fagulhas
+        painted(f'ember{i}', R, C, 64, ('c', 'b'), thr=14)
+    for i, (R, C) in enumerate([(7, 0), (6, 1), (5, 4), (8, 0)]):  # folhas em ângulos diferentes
+        painted(f'leaf{i}', R, C, 96, thr=16)
+    for i, (R, C) in enumerate([(5, 9), (6, 9), (7, 9), (8, 9)]):  # cristais de pedra brotando (4 estágios)
+        painted(f'rock{i}', R, C, 128, ('c', 'b'), thr=22)
+
+
+kit.PREV.update({'spikes': 'ice', 'flamelet': 'fire', 'twinkle': 'gold', 'shock2': 'fire', 'burst2': 'fire', 'gust': 'toxic', 'rock': 'fire'})
 
 
 def main():

diff --git a/tools/vfx-kit.py b/tools/vfx-kit.py
@@ -4,6 +4,7 @@ Cada sprite guarda a INTENSIDADE (0..1) nos canais RGB (cinza) e a opacidade no 
 rampa de cor por paleta (borda escura -> cor -> cor clara -> branco no nucleo), por isso o mesmo sprite serve ao fogo laranja, a brasa vermelha, etc.
 Uso: python tools/vfx-kit.py [--preview caminho.png]
 Arte pintada do dono: tools/vfx-sheet.py (parte deste kit e troca os sprites que as folhas cobrem).
+"""
 import json, sys, os
 import numpy as np
 from PIL import Image, ImageDraw
